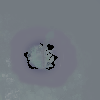
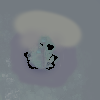
wallpaper generator

diff --git a/bundle.js b/bundle.js
@@ -811,7 +811,7 @@ void main() {
         sprites.droof = [[72, 17], [24, 17], 0, 'tex/8bit/droof'];
         sprites.dcrate = [[24, 40], [24, 40], 0, 'tex/8bit/dcrate'];
         sprites.ddoor = [[192, 40], [24, 40], 0, 'tex/8bit/ddoor'];
-        sprites.drustywalls = [[264, 40], [24, 40], 0, 'tex/8bit/drustywalls'];
+        sprites.drustywalls = [[264, 40], [24, 40], 0, 'tex/8bit/dcommonwalls'];
         sprites.dwoodywalls = [[264, 40], [24, 40], 0, 'tex/8bit/dwoodywalls'];
         sprites.dmedievalwalls = [[264, 40], [24, 40], 0, 'tex/8bit/dmedievalwalls'];
         sprites.dscrappywalls = [[264, 40], [24, 40], 0, 'tex/dscrappywalls'];
@@ -2151,6 +2151,7 @@ void main() {
         shear.started = false;
         var canvas, ctx;
         var spare, spareCtx;
+        var walls, goal, wallpapers, wallpaper;
         function start() {
             shear.started = true;
             document.title = 'shear';
@@ -2173,25 +2174,23 @@ void main() {
             ctx = canvas.getContext('2d');
             let style = document.location.href.split('shear=')[1];
             console.log(style);
-            var walls = document.getElementById(style);
-            var goal = document.getElementById('goal');
+            walls = document.getElementById(style);
+            goal = document.getElementById('goal');
+            wallpaper = document.getElementById('wallpaper');
+            wallpapers = document.getElementById('wallpapers');
             ctx.drawImage(walls, 0, 0);
             ctx.globalCompositeOperation = 'source-atop';
             ctx.drawImage(goal, 0, 0);
             // -4, 8 for thin
             // -3, 6 for thick
-            let x, y, x2, y2;
+            let x, y;
             if (style == 'thin') {
                 y = -4;
                 x = 8;
-                y2 = 2;
-                x2 = -4;
             }
             else if (style == 'thick') {
                 y = -3;
                 x = 6;
-                y2 = 1;
-                x2 = -2;
             }
             // half
             ctx.drawImage(goal, 24, 0);
@@ -2212,14 +2211,77 @@ void main() {
             spareCtx.clearRect(0, 0, 24, 40);
             spareCtx.drawImage(canvas, -24 * 5, 0);
             ctx.drawImage(spare, 24 * 4, 0);
-            ctx.drawImage(spare, 24 * 9 - x2, -y2);
+            //ctx.drawImage(spare, 24 * 9 - x2, -y2);
             spareCtx.clearRect(0, 0, 24, 40);
             spareCtx.drawImage(canvas, -24 * 6, 0);
-            ctx.drawImage(spare, 24 * 10 + x2, -y2);
+            //ctx.drawImage(spare, 24 * 10 + x2, -y2);
             document.body.append(canvas);
             document.body.append(spare);
+            start_wallpaper();
         }
         shear.start = start;
+        function start_wallpaper() {
+            let style = document.location.href.split('shear=')[1];
+            let x, y;
+            if (style == 'thin') {
+                y = -4;
+                x = 8;
+            }
+            else if (style == 'thick') {
+                y = -3;
+                x = 6;
+            }
+            let spare2Canvas, ctx2;
+            spare2Canvas = document.createElement("canvas");
+            ctx2 = spare2Canvas.getContext('2d');
+            spare2Canvas.width = 24 * 11;
+            spare2Canvas.height = 40;
+            spare2Canvas.style.position = 'relative';
+            spare2Canvas.style.zoom = '3';
+            spare2Canvas.style.display = 'block';
+            spare2Canvas.style.zIndex = '2';
+            ctx2.drawImage(wallpapers, 0, 0);
+            ctx2.globalCompositeOperation = 'source-atop';
+            let wallpaperCanvas;
+            wallpaperCanvas = document.createElement("canvas");
+            let ctx1 = wallpaperCanvas.getContext('2d');
+            wallpaperCanvas.width = 24 * 11;
+            wallpaperCanvas.height = 40;
+            wallpaperCanvas.style.position = 'relative';
+            wallpaperCanvas.style.zoom = '3';
+            wallpaperCanvas.style.display = 'block';
+            wallpaperCanvas.style.zIndex = '2';
+            ctx1.drawImage(walls, 0, 0);
+            ctx1.globalCompositeOperation = 'source-atop';
+            ctx1.drawImage(wallpaper, 0, 0);
+            ctx1.drawImage(wallpaper, 24, 0);
+            ctx1.drawImage(wallpaper, 24 * 5, 0);
+            ctx1.drawImage(wallpaper, 24 * 6, 0);
+            spareCtx.drawImage(wallpaperCanvas, -24 * 5, 0);
+            ctx1.drawImage(spare, 24 * 2 + x, y);
+            ctx1.drawImage(spare, 24 * 3 + x, y);
+            ctx1.drawImage(spare, 24 * 7 + x, y);
+            spareCtx.clearRect(0, 0, 24, 40);
+            spareCtx.drawImage(wallpaperCanvas, -24 * 6, 0);
+            ctx1.drawImage(spare, 24 * 2, 0);
+            spareCtx.clearRect(12 + x, 0, 24, 40);
+            ctx1.drawImage(spare, 24 * 3 - x, y);
+            spareCtx.drawImage(wallpaperCanvas, -24 * 6, 0);
+            ctx1.drawImage(spare, 24 * 4 - x, y);
+            ctx1.drawImage(spare, 24 * 8 - x, y);
+            spareCtx.clearRect(0, 0, 24, 40);
+            spareCtx.drawImage(wallpaperCanvas, -24 * 5, 0);
+            ctx1.drawImage(spare, 24 * 4, 0);
+            //ctx.drawImage(spare, 24 * 9 - x2, -y2);
+            spareCtx.clearRect(0, 0, 24, 40);
+            spareCtx.drawImage(wallpaperCanvas, -24 * 6, 0);
+            //ctx.drawImage(spare, 24 * 10 + x2, -y2);
+            ctx2.drawImage(wallpaperCanvas, 0, 0);
+            ctx.drawImage(spare2Canvas, 0, 0);
+            document.body.append(wallpaperCanvas);
+            document.body.append(spare2Canvas);
+        }
+        shear.start_wallpaper = start_wallpaper;
         function tick() {
             if (!shear.started)
                 return;

diff --git a/src/shear.ts b/src/shear.ts
@@ -11,6 +11,7 @@ namespace shear {
 	var canvas, ctx;
 	var spare, spareCtx;
 	var room, roomCtx;
+	var walls, goal, wallpapers, wallpaper;
 
 	export function start() {
 		started = true;
@@ -38,10 +39,11 @@ namespace shear {
 
 		let style = document.location.href.split('shear=')[1];
 		console.log(style);
-		
 
-		var walls = document.getElementById(style)
-		var goal = document.getElementById('goal')
+		walls = document.getElementById(style);
+		goal = document.getElementById('goal');
+		wallpaper = document.getElementById('wallpaper');
+		wallpapers = document.getElementById('wallpapers');
 
 		ctx.drawImage(walls, 0, 0);
 
@@ -85,15 +87,97 @@ namespace shear {
 		spareCtx.clearRect(0, 0, 24, 40);
 		spareCtx.drawImage(canvas, -24 * 5, 0);
 		ctx.drawImage(spare, 24 * 4, 0);
-		ctx.drawImage(spare, 24 * 9 - x2, -y2);
+		//ctx.drawImage(spare, 24 * 9 - x2, -y2);
 		spareCtx.clearRect(0, 0, 24, 40);
 		spareCtx.drawImage(canvas, -24 * 6, 0);
-		ctx.drawImage(spare, 24 * 10 + x2, -y2);
+		//ctx.drawImage(spare, 24 * 10 + x2, -y2);
 		
 		document.body.append(canvas);
 		document.body.append(spare);
 
+		start_wallpaper();
 	}
+
+	export function start_wallpaper() {
+
+		let style = document.location.href.split('shear=')[1];
+
+		let x, y, x2, y2;
+		if (style == 'thin') {
+			y = -4;
+			x = 8;
+			y2 = 2;
+			x2 = -4;
+		}
+		else if (style == 'thick')
+		{
+			y = -3;
+			x = 6;
+			y2 = 1;
+			x2 = -2;
+		}
+
+		let spare2Canvas, ctx2;
+		spare2Canvas = document.createElement("canvas") as HTMLCanvasElement;
+		ctx2 = spare2Canvas.getContext('2d')!;
+		spare2Canvas.width = 24 * 11;
+		spare2Canvas.height = 40;
+		spare2Canvas.style.position = 'relative';
+		spare2Canvas.style.zoom = '3';
+		spare2Canvas.style.display = 'block';
+		spare2Canvas.style.zIndex = '2';
+
+		ctx2.drawImage(wallpapers, 0, 0);
+		ctx2.globalCompositeOperation = 'source-atop';
+
+		let wallpaperCanvas;
+		wallpaperCanvas = document.createElement("canvas") as HTMLCanvasElement;
+		let ctx1 = wallpaperCanvas.getContext('2d')!;
+
+		wallpaperCanvas.width = 24 * 11;
+		wallpaperCanvas.height = 40;
+		wallpaperCanvas.style.position = 'relative';
+		wallpaperCanvas.style.zoom = '3';
+		wallpaperCanvas.style.display = 'block';
+		wallpaperCanvas.style.zIndex = '2';
+
+		ctx1.drawImage(walls, 0, 0);
+
+		ctx1.globalCompositeOperation = 'source-atop';
+		ctx1.drawImage(wallpaper, 0, 0);
+		
+		ctx1.drawImage(wallpaper, 24, 0);
+		ctx1.drawImage(wallpaper, 24 * 5, 0);
+		ctx1.drawImage(wallpaper, 24 * 6, 0);
+		spareCtx.drawImage(wallpaperCanvas, -24 * 5, 0);
+		ctx1.drawImage(spare, 24 * 2 + x, y);
+		ctx1.drawImage(spare, 24 * 3 + x, y);
+		ctx1.drawImage(spare, 24 * 7 + x, y);
+		spareCtx.clearRect(0, 0, 24, 40);
+		spareCtx.drawImage(wallpaperCanvas, -24 * 6, 0);
+		ctx1.drawImage(spare, 24 * 2, 0);
+		spareCtx.clearRect(12 + x, 0, 24, 40);
+		ctx1.drawImage(spare, 24 * 3 - x, y);
+		spareCtx.drawImage(wallpaperCanvas, -24 * 6, 0);
+		ctx1.drawImage(spare, 24 * 4 - x, y);
+		ctx1.drawImage(spare, 24 * 8 - x, y);
+		spareCtx.clearRect(0, 0, 24, 40);
+		spareCtx.drawImage(wallpaperCanvas, -24 * 5, 0);
+		ctx1.drawImage(spare, 24 * 4, 0);
+		//ctx.drawImage(spare, 24 * 9 - x2, -y2);
+		spareCtx.clearRect(0, 0, 24, 40);
+		spareCtx.drawImage(wallpaperCanvas, -24 * 6, 0);
+		//ctx.drawImage(spare, 24 * 10 + x2, -y2);
+
+		ctx2.drawImage(wallpaperCanvas, 0, 0);
+
+		ctx.drawImage(spare2Canvas, 0, 0);
+
+		document.body.append(wallpaperCanvas);
+		document.body.append(spare2Canvas);
+
+	}
+
 
 	export function tick() {
 		if (!started)

diff --git a/src/sprites.ts b/src/sprites.ts
@@ -28,7 +28,7 @@ export namespace sprites {
 	export const droof: tuple = [[72, 17], [24, 17], 0, 'tex/8bit/droof']
 	export const dcrate: tuple = [[24, 40], [24, 40], 0, 'tex/8bit/dcrate']
 	export const ddoor: tuple = [[192, 40], [24, 40], 0, 'tex/8bit/ddoor']
-	export const drustywalls: tuple = [[264, 40], [24, 40], 0, 'tex/8bit/drustywalls']
+	export const drustywalls: tuple = [[264, 40], [24, 40], 0, 'tex/8bit/dcommonwalls']
 	export const dwoodywalls: tuple = [[264, 40], [24, 40], 0, 'tex/8bit/dwoodywalls']
 	export const dmedievalwalls: tuple = [[264, 40], [24, 40], 0, 'tex/8bit/dmedievalwalls']
 

diff --git a/index.html b/index.html
@@ -111,7 +111,9 @@
 
 	<img id="thin" src="shear/wallsthin.png" />
 	<img id="thick" src="shear/wallsthick.png" />
-	<img id="goal" src="shear/medieval.png" />
+	<img id="wallpapers" src="shear/wallpapers.png" />
+	<img id="wallpaper" src="shear/wallpaper.png" />
+	<img id="goal" src="shear/rusty.png" />
 	<div id="pane"></div>
 	<div class="stats">loading... :)</div>
 	<!--<div id="examine">
